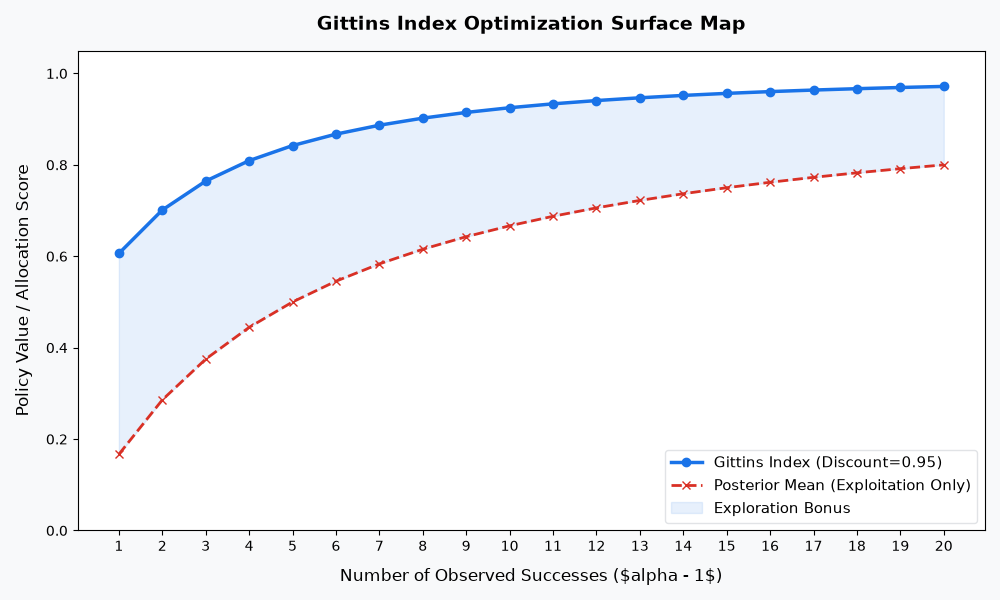
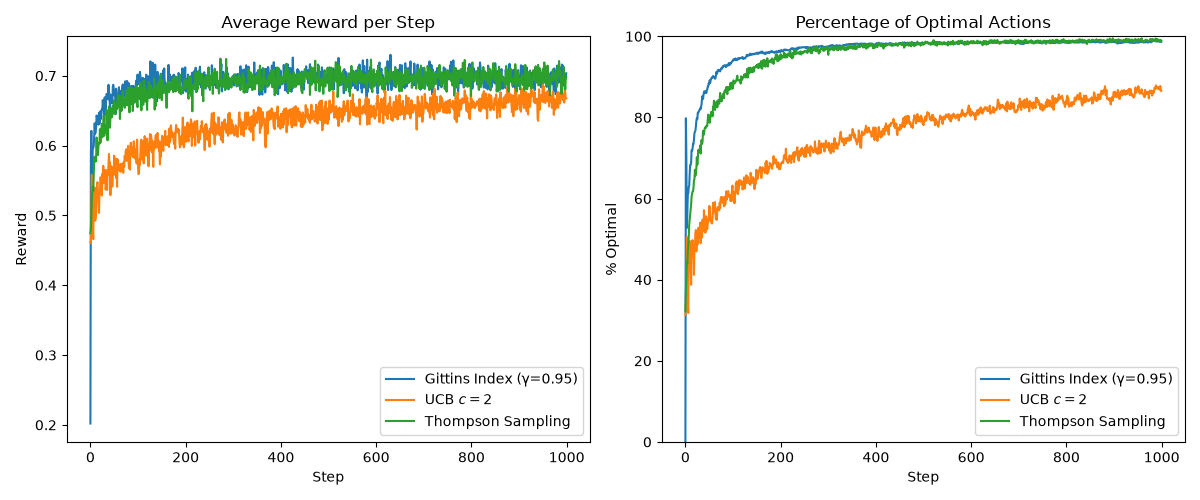
TS and GI Bugs Fixed

diff --git a/MDP_Playground.html b/MDP_Playground.html
@@ -6,7 +6,7 @@
 
 <meta name="viewport" content="width=device-width, initial-scale=1.0, user-scalable=yes">
 
-<meta name="author" content="Aya">
+<meta name="author" content="Aya Shabbar">
 <meta name="dcterms.date" content="2026-08-13">
 
 <title>Reference Implementations of Reinforcement Learning Models</title>
@@ -128,7 +128,7 @@ window.Quarto = {
     <div>
     <div class="quarto-title-meta-heading">Author</div>
     <div class="quarto-title-meta-contents">
-             <p>Aya </p>
+             <p>Aya Shabbar </p>
           </div>
   </div>
     

diff --git a/MAB_Agents.py b/MAB_Agents.py
@@ -4,6 +4,7 @@ import matplotlib.pyplot as plt
 import numpy as np
 from scipy.stats import beta
 from tqdm import trange
+from scipy.stats import norm
 
 from environment import (
     BanditEnvironment,
@@ -119,6 +120,7 @@ class ThompsonSampling(Base_Bandit):
         self.failures = [0] * self.k
 
     def reset(self):
+        super().reset()
         self.alphas = [self.default_alpha] * self.k
         self.betas = [self.default_beta] * self.k
         self.successes = [0] * self.k
@@ -135,6 +137,7 @@ class ThompsonSampling(Base_Bandit):
         """
         reward = self.env.get_reward(action)
         self.time += 1
+        self.action_count[action] += 1
         self.average_reward += (reward - self.average_reward) / self.time
 
         # update internal statistics
@@ -146,9 +149,6 @@ class ThompsonSampling(Base_Bandit):
             self.betas[action] += 1
 
         return reward
-
-    def update(self, arm, reward):
-        pass
 
     def plot_posteriors(self, arm_labels=None):
         # plots the Probability Density Function (PDF) of the Beta distribution for each arm."""
@@ -186,8 +186,8 @@ class GittinsIndex(Base_Bandit):
         super().__init__(**kwargs)
 
         # Initialize flat Beta(1,1) priors for each arm
-        self.successes = np.ones(self.k)
-        self.failures = np.ones(self.k)
+        self.successes = np.zeros(self.k)
+        self.failures = np.zeros(self.k)
 
     def act(self) -> int:
         """Finds and returns the index of the best arm to pull."""
@@ -201,13 +201,25 @@ class GittinsIndex(Base_Bandit):
             indices.append(idx)
         return int(np.argmax(indices))
 
-    def update(self, arm_index, reward):
-        """Updates the posterior state based on binary outcomes."""
-        if reward == 1:
-            self.successes[arm_index] += 1
-        else:
-             self.failures[arm_index] += 1    
+    def step(self, action):
+        reward = self.env.get_reward(action)
+        self.time += 1
+        self.action_count[action] += 1
+        self.average_reward += (reward - self.average_reward) / self.time
 
+        if reward == 1:
+            self.successes[action] += 1
+        else:
+            self.failures[action] += 1
+
+        return reward      
+    
+    def reset(self):
+        super().reset()
+        self.successes = np.zeros(self.k)
+        self.failures = np.zeros(self.k)  
+
+         
 
 def simulate(runs, time, bandits):
     rewards = np.zeros((len(bandits), runs, time))
@@ -282,40 +294,55 @@ def figure_TS(runs=2000, time=1000, show=False):
     env = BernoulliBanditEnvironment(true_probs=true_probs)
 
     ts = ThompsonSampling(env=env)
-    bandits_list = [ts]
+    ucb = UCB(env=env, UCB_param=2, sample_averages=True)
+    bandits_list = [ts, ucb]
 
-    rewards, optimality = simulate(runs, time, bandits=bandits_list)
-    avg_rewards = rewards[0]
-    avg_optimality = optimality[0]
+    optimality, rewards = simulate(runs, time, bandits=bandits_list)
+
+    plt.plot(rewards[0], label="Thompson Sampling")
+    plt.plot(rewards[1], label="UCB $c = 2$")
+    plt.xlabel("Steps")
+    plt.ylabel("Average Reward")
+    plt.legend()
+
+    if show:
+        plt.show()
+    else:
+        plt.savefig("figure_TS_UCB.png")
+    plt.close()   
 
     plt.figure(figsize=(12, 5))
-
     plt.subplot(1, 2, 1)
-    plt.plot(avg_rewards)
+    plt.plot(rewards[0], label="Thompson Sampling")
+    plt.plot(rewards[1], label="UCB $c = 2$")
     plt.title("Average Reward per Step")
     plt.xlabel("Step")
     plt.ylabel("Reward")
+    plt.legend()
 
     plt.subplot(1, 2, 2)
-    plt.plot(avg_optimality * 100)
+    plt.plot(optimality[0] * 100, label="Thompson Sampling")
+    plt.plot(optimality[1] * 100, label="UCB $c = 2$")
     plt.title("Percentage of Optimal Actions")
     plt.xlabel("Step")
     plt.ylabel("% Optimal")
     plt.ylim(0, 100)
+    plt.legend()
     plt.tight_layout()
+
     if show:
         plt.show()
     else:
-        plt.savefig("figure_TS.png")
+        plt.savefig("figure_TS_TS.png")
     plt.close()
 
     # visualize final posteriors
     ts_viz = ThompsonSampling(env=env)
-
+    
     for _ in range(200):
         action = ts_viz.act()
         reward = ts_viz.step(action)
-
+    
     ts_viz.plot_posteriors(arm_labels=["Low (0.2)", "High (0.7)", "Med (0.5)"])
     plt.savefig("figure_TS_PDF.png")
     plt.close()
@@ -323,53 +350,28 @@ def figure_TS(runs=2000, time=1000, show=False):
 
 def gittins_index_approx(successes: int, failures: int, discount_factor: float = 0.9) -> float:
     """
-    This function implements a Bayesian Upper Confidence Bound (Bayes-UCB) strategy 
-    that serves as a computationally efficient proxy for the true Gittins index
-    Daniel Russo (2021)
+    Approximates the Gittins index for a Beta-Bernoulli arm using the
+    asymptotic equivalence to the posterior γ-quantile (Russo, 2014).
 
-    Parameters:
-        successes (int): Number of observed successes (s).
-        failures (int): Number of observed failures (f).
-        discount_factor (float): Gamma, typically close to 1 (e.g., 0.9 - 0.99).
-        
-    Returns:
-        float: Approximated Gittins index.
+    GI ≈ μ + Φ⁻¹(γ) · σ   (as γ → 1)
     """
-    # Alpha and Beta for the posterior Beta distribution
-    # Prior is typically Beta(1, 1) for uniform, so alpha = s + 1, beta_param = f + 1
     alpha = successes + 1
     beta_param = failures + 1
-    
-    n = alpha + beta_param - 2 # Total observations
-    
-    # Posterior Mean (Exploitation term)
-    mean = alpha / (alpha + beta_param)
-    
-    # If no data, return the prior mean (0.5 for Beta(1,1))
-    if n == 0:
-        return 0.5
 
-    # Posterior Variance (Exploration term) / Uncertainty
+    mean = alpha / (alpha + beta_param)
     variance = (alpha * beta_param) / ((alpha + beta_param)**2 * (alpha + beta_param + 1))
     std_dev = np.sqrt(variance)
-    
-    # Effective horizon approximation
+
     if discount_factor >= 1.0:
-        return 1.0 
-        
-    effective_horizon = 1 / (1 - discount_factor)
-    
-    # The exploration bonus (the approximation core)
-    scaling_factor = np.sqrt(2 * np.log(effective_horizon + 1)) 
-    
-    exploration_bonus = scaling_factor * std_dev
-    
-    index_value = mean + exploration_bonus
-    
-    return float(min(max(index_value, 0.0), 1.0))
+        return float(mean)  # undiscounted → pure exploitation
+
+    scaling = norm.ppf(discount_factor)  # Φ⁻¹(γ)
+    index_value = mean + scaling * std_dev
+
+    return float(np.clip(index_value, 0.0, 1.0))
 
 
-def figure_GI():
+def figure_Gittins():
     # Setup simulation parameters
     fixed_failures = 5
     success_range = np.arange(1, 21)  # X-axis from 1 to 20 successes
@@ -377,7 +379,7 @@ def figure_GI():
 
     # Compute indices over the distribution grid
     gittins_values = [gittins_index_approx(s, fixed_failures, discount) for s in success_range]
-    posterior_means = [s / (s + fixed_failures) for s in success_range]
+    posterior_means = [(s + 1) / (s + fixed_failures + 2) for s in success_range]   
 
     # Initialize the visualization layout
     plt.figure(figsize=(10, 6), facecolor='#f8f9fa')
@@ -394,8 +396,8 @@ def figure_GI():
     plt.fill_between(success_range, posterior_means, gittins_values, 
                     color='#1a73e8', alpha=0.1, label='Exploration Bonus')
 
-    plt.title('Approximation Gittins Indices', fontsize=14, fontweight='bold', pad=15)
-    plt.xlabel('Number of Observed Successes (\\$alpha - 1$)', fontsize=12, labelpad=10)
+    plt.title('Approximation of Gittins Indices', fontsize=14, fontweight='bold', pad=15)
+    plt.xlabel('Number of Observed Successes ($\\alpha - 1$)', fontsize=12, labelpad=10)
     plt.ylabel('Policy Value / Allocation Score', fontsize=12, labelpad=10)
     plt.xticks(success_range)
     plt.ylim(0.0, 1.05)
@@ -404,12 +406,53 @@ def figure_GI():
 
     plt.tight_layout()
     #plt.show()
-    plt.savefig("figure_GI_0.png")
+    plt.savefig("figure_Gittins.png")
     plt.close()
 
+
+def figure_GI(runs=2000, time=1000, show=False):
+    true_probs = [0.2, 0.7, 0.5]
+    env = BernoulliBanditEnvironment(true_probs=true_probs)
+
+    gi = GittinsIndex(env=env, discount_factor=0.95)
+    ucb = UCB(env=env, UCB_param=2, sample_averages=True)
+    ts = ThompsonSampling(env=env)
+    bandits_list = [gi, ucb, ts]
+
+    optimality, rewards = simulate(runs, time, bandits=bandits_list)
+
+    plt.figure(figsize=(12, 5))
+
+    plt.subplot(1, 2, 1)
+    plt.plot(rewards[0], label="Gittins Index (γ=0.95)")
+    plt.plot(rewards[1], label="UCB $c = 2$")
+    plt.plot(rewards[2], label="Thompson Sampling")
+    plt.title("Average Reward per Step")
+    plt.xlabel("Step")
+    plt.ylabel("Reward")
+    plt.legend()
+
+    plt.subplot(1, 2, 2)
+    plt.plot(optimality[0] * 100, label="Gittins Index (γ=0.95)")
+    plt.plot(optimality[1] * 100, label="UCB $c = 2$")
+    plt.plot(optimality[2] * 100, label="Thompson Sampling")
+    plt.title("Percentage of Optimal Actions")
+    plt.xlabel("Step")
+    plt.ylabel("% Optimal")
+    plt.ylim(0, 100)
+    plt.legend()
+
+    plt.tight_layout()
+    if show:
+        plt.show()
+    else:
+        plt.savefig("figure_GI.png")
+    plt.close()   
+    
 
 if __name__ == "__main__":
     #figure_epsilongreedy()
     #figure_UCB()
     #figure_TS()
-    figure_GI()
+    figure_Gittins()
+    #figure_GI()
